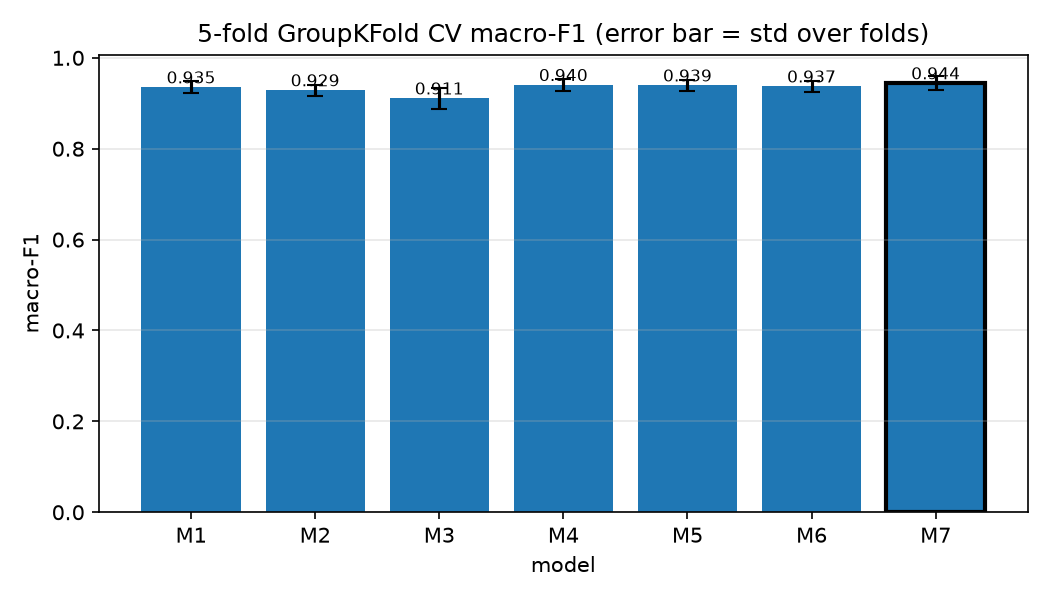
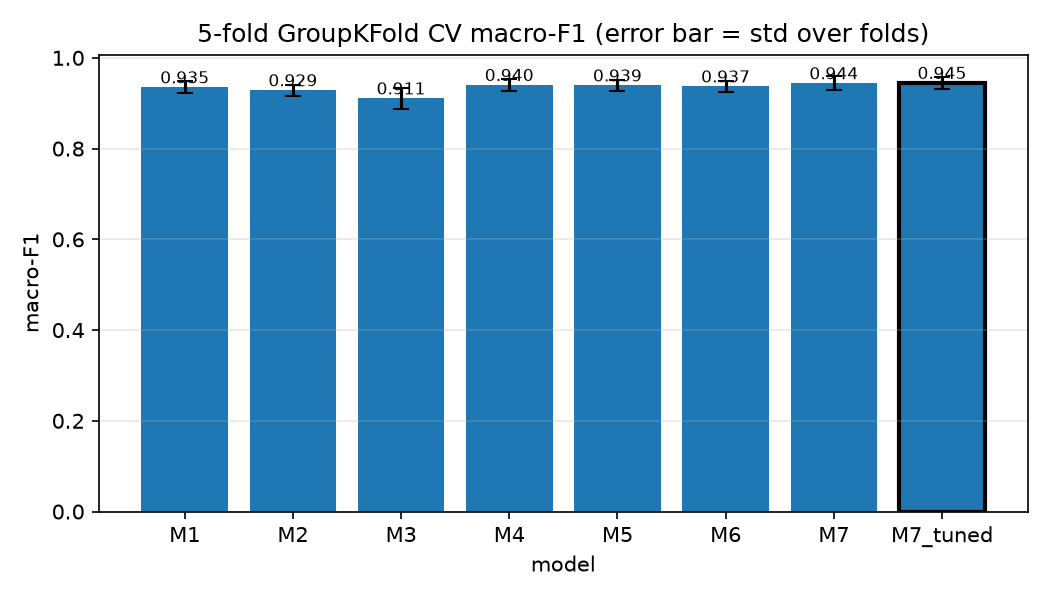
Optuna TPE tuning of M7 (25 trials), tuned vs untuned, updated comparison plots

diff --git a/src/tune.py b/src/tune.py
@@ -1,0 +1,229 @@
+"""M7 tuning: Optuna TPE (Bayesian) on LightGBM LambdaRank.
+
+Search: 50 trials, objective = mean Top-1 over 5-fold GroupKFold (by trip_id) on the 80 TRAIN trips.
+Trial 0 is the untuned M7 configuration, so the baseline is scored under the exact same protocol.
+Final: refit best params on all 80 train trips, evaluate once on the 10 student_test trips.
+The evaluator partition is never loaded here.
+
+Storage: Optuna file journal (results/optuna_journal.log) with the open-file lock, not SQLite
+(SQLAlchemy's DLL is blocked by Application Control) and not the default symlink lock (Windows
+needs a privilege for symlinks). Same effect: every trial is persisted and the run is resumable.
+
+Usage:
+    python src/tune.py --smoke      # 2 trials, in-memory, writes nothing (sanity check)
+    python src/tune.py              # full run, resumable
+
+Outputs: results/optuna_trials.csv, results/optuna_summary.json, results/optuna_journal.log,
+         figures/optuna_history.png, figures/optuna_param_importance.png,
+         models/M7_tuned_lgbm_rank.joblib, results/preds_student_test_M7_tuned.parquet,
+         one row (model_id=M7_tuned) in results/model_results.csv
+"""
+import os
+import sys
+import json
+import time
+import argparse
+import joblib
+import numpy as np
+import pandas as pd
+import lightgbm as lgb
+import optuna
+from optuna.storages import JournalStorage
+from optuna.storages.journal import JournalFileBackend, JournalFileOpenLock
+import matplotlib
+matplotlib.use("Agg")
+import matplotlib.pyplot as plt
+from sklearn.model_selection import GroupKFold
+
+sys.path.insert(0, os.path.dirname(os.path.abspath(__file__)))
+from features import FEATURES                                            # noqa: E402
+from metrics import normalize_per_point, evaluate, predicted_sequence, continuity, append_result  # noqa: E402
+from train_rank import PARAMS, load, drop_queries_without_positive, group_sizes  # noqa: E402
+
+ROOT = os.path.dirname(os.path.dirname(os.path.abspath(__file__)))
+P = lambda *a: os.path.join(ROOT, *a)
+SEED = 42
+N_TRIALS = 50
+STUDY_NAME = "m7_lambdarank_tpe"
+
+
+def fit_with(params, df):
+    m = lgb.LGBMRanker(**params)
+    m.fit(df[FEATURES], df["label"], group=group_sizes(df))
+    return m
+
+
+def make_folds(train):
+    """Same splitter as train_rank.py (5-fold GroupKFold by trip, no shuffle) -> identical folds."""
+    out = []
+    for tr_i, va_i in GroupKFold(n_splits=5).split(train, groups=train["trip_id"]):
+        out.append((set(train.loc[tr_i, "trip_id"]), va_i))
+    return out
+
+
+def suggest(trial):
+    p = dict(PARAMS)
+    p.update(
+        n_estimators=trial.suggest_int("n_estimators", 100, 500, step=50),
+        learning_rate=trial.suggest_float("learning_rate", 0.01, 0.2, log=True),
+        num_leaves=trial.suggest_int("num_leaves", 15, 127),
+        min_child_samples=trial.suggest_int("min_child_samples", 10, 200),
+        subsample=trial.suggest_float("subsample", 0.5, 1.0),
+        colsample_bytree=trial.suggest_float("colsample_bytree", 0.5, 1.0),
+        reg_lambda=trial.suggest_float("reg_lambda", 1e-3, 10.0, log=True),
+    )
+    return p
+
+
+def main():
+    ap = argparse.ArgumentParser()
+    ap.add_argument("--trials", type=int, default=N_TRIALS)
+    ap.add_argument("--smoke", action="store_true", help="2 trials, in-memory study, write nothing")
+    args = ap.parse_args()
+    n_trials = 2 if args.smoke else args.trials
+
+    for d in ["models", "results", "figures"]:
+        os.makedirs(P(d), exist_ok=True)
+    optuna.logging.set_verbosity(optuna.logging.INFO)
+
+    train = load("train")
+    train_fit = drop_queries_without_positive(train)
+    folds = make_folds(train)
+    print(f"train rows={len(train)} (fit rows={len(train_fit)}), folds={len(folds)}")
+
+    def objective(trial):
+        params = suggest(trial)
+        top1s, f1s, lls = [], [], []
+        t0 = time.time()
+        for k, (tr_trips, va_i) in enumerate(folds):
+            tr = train_fit[train_fit["trip_id"].isin(tr_trips)].reset_index(drop=True)
+            va = train.loc[va_i].reset_index(drop=True)
+            m = fit_with(params, tr)
+            prob = normalize_per_point(va, m.predict(va[FEATURES]), mode="softmax")
+            r = evaluate(va, prob)
+            top1s.append(r["top1"]); f1s.append(r["macro_f1"]); lls.append(r["logloss"])
+            trial.set_user_attr("fold_top1", [round(x, 5) for x in top1s])
+            trial.report(float(np.mean(top1s)), step=k)
+            if trial.should_prune():
+                raise optuna.TrialPruned()
+        trial.set_user_attr("cv_macro_f1_mean", float(np.mean(f1s)))
+        trial.set_user_attr("cv_macro_f1_std", float(pd.Series(f1s).std()))
+        trial.set_user_attr("cv_logloss_mean", float(np.mean(lls)))
+        trial.set_user_attr("trial_seconds", round(time.time() - t0, 1))
+        return float(np.mean(top1s))
+
+    if args.smoke:
+        storage = None  # in-memory
+    else:
+        jpath = P("results", "optuna_journal.log")
+        storage = JournalStorage(JournalFileBackend(jpath, lock_obj=JournalFileOpenLock(jpath)))
+    study = optuna.create_study(
+        study_name=STUDY_NAME, storage=storage, load_if_exists=True, direction="maximize",
+        sampler=optuna.samplers.TPESampler(seed=SEED, n_startup_trials=10),
+        pruner=optuna.pruners.MedianPruner(n_startup_trials=10, n_warmup_steps=1),
+    )
+    if len(study.trials) == 0:  # trial 0 = untuned M7 config, scored under the same CV protocol
+        study.enqueue_trial(dict(n_estimators=400, learning_rate=0.05, num_leaves=63, min_child_samples=50,
+                                 subsample=0.8, colsample_bytree=0.8, reg_lambda=1.0))
+
+    S = optuna.trial.TrialState
+    done = sum(t.state in (S.COMPLETE, S.PRUNED) for t in study.trials)
+    remaining = max(0, n_trials - done)
+    print(f"trials done={done}, running {remaining} more (target {n_trials})")
+
+    def save_csv(study_, trial_):
+        if not args.smoke:
+            study_.trials_dataframe().to_csv(P("results", "optuna_trials.csv"), index=False)
+
+    if remaining:
+        study.optimize(objective, n_trials=remaining, n_jobs=1, callbacks=[save_csv])
+
+    trials = [t for t in study.trials if t.state in (S.COMPLETE, S.PRUNED)]
+    complete = [t for t in trials if t.state == S.COMPLETE]
+    pruned = [t for t in trials if t.state == S.PRUNED]
+    search_s = sum(t.duration.total_seconds() for t in trials if t.duration is not None)
+    best = study.best_trial
+    base = study.trials[0]
+    print(f"\ncomplete={len(complete)} pruned={len(pruned)} search time={search_s/60:.1f} min")
+    print(f"baseline (trial 0) CV top1={base.value}")
+    print(f"best trial #{best.number} CV top1={best.value:.4f}")
+    print("best params:", json.dumps(best.params))
+
+    if args.smoke:
+        print("smoke test OK, nothing written")
+        return
+
+    study.trials_dataframe().to_csv(P("results", "optuna_trials.csv"), index=False)
+
+    # optimisation history (real trial values) + best-so-far
+    plt.figure(figsize=(7, 4))
+    xs = [t.number for t in complete]
+    ys = [t.value for t in complete]
+    plt.scatter(xs, ys, s=20, label="completed trial")
+    if pruned:
+        plt.scatter([t.number for t in pruned], [np.mean(t.user_attrs["fold_top1"]) for t in pruned],
+                    s=20, marker="x", c="grey", label="pruned (partial CV mean)")
+    plt.plot(xs, np.maximum.accumulate(ys), c="red", label="best so far")
+    plt.xlabel("trial"); plt.ylabel("CV Top-1 (mean of 5 folds)")
+    plt.title("M7 Optuna TPE: optimisation history"); plt.legend(); plt.grid(alpha=.3); plt.tight_layout()
+    plt.savefig(P("figures", "optuna_history.png"), dpi=150); plt.close()
+
+    # parameter importance (Optuna's default evaluator, completed trials only)
+    try:
+        imp = optuna.importance.get_param_importances(study)
+        s = pd.Series(imp).sort_values()
+        plt.figure(figsize=(6, 4)); s.plot.barh()
+        plt.xlabel("importance"); plt.title("M7 tuning: hyperparameter importance")
+        plt.tight_layout(); plt.savefig(P("figures", "optuna_param_importance.png"), dpi=150); plt.close()
+        s.to_csv(P("results", "optuna_param_importance.csv"))
+    except Exception as e:
+        print("param importance skipped:", e)
+
+    # refit best params on all 80 train trips, evaluate on student_test
+    params = dict(PARAMS)
+    params.update(best.params)
+    st = load("student_test")
+    t0 = time.time()
+    model = fit_with(params, train_fit)
+    train_time = time.time() - t0
+    t0 = time.time()
+    raw = model.predict(st[FEATURES])
+    infer_ms = 1000 * (time.time() - t0) / st.groupby(["trip_id", "point_idx"]).ngroups
+    prob = normalize_per_point(st, raw, mode="softmax")
+    r = evaluate(st, prob)
+    pred = predicted_sequence(st, prob)
+    cont = continuity(pred, P("data", "raw", "student_test"))
+    pred.to_parquet(P("results", "preds_student_test_M7_tuned.parquet"), index=False)
+    joblib.dump({"model": model, "features": FEATURES, "score_mode": "softmax"},
+                P("models", "M7_tuned_lgbm_rank.joblib"))
+
+    cfg = {k: v for k, v in params.items() if k not in ("n_jobs", "verbose")}
+    append_result(dict(
+        model_id="M7_tuned", family="Learning-to-rank (LightGBM LambdaRank), Optuna-tuned", config=json.dumps(cfg),
+        cv_macro_f1_mean=best.user_attrs["cv_macro_f1_mean"], cv_macro_f1_std=best.user_attrs["cv_macro_f1_std"],
+        cv_top1_mean=best.value,
+        st_top1=r["top1"], st_macro_f1=r["macro_f1"], st_precision=r["precision"], st_recall=r["recall"],
+        st_logloss=r["logloss"], st_continuity=cont, train_time_s=round(train_time, 1),
+        infer_time_ms_per_point=round(infer_ms, 4), timestamp=pd.Timestamp.now().isoformat(timespec="seconds"),
+    ), P("results", "model_results.csv"))
+
+    summary = dict(
+        study=STUDY_NAME, sampler="TPE (seed 42, 10 startup trials)", pruner="Median (10 startup, warmup 1 fold)",
+        objective="mean Top-1, 5-fold GroupKFold by trip_id, 80 train trips",
+        n_trials_total=len(trials), n_complete=len(complete), n_pruned=len(pruned),
+        search_time_s=round(search_s, 1), baseline_cv_top1=base.value, best_trial=best.number,
+        best_cv_top1=best.value, best_params=best.params, final_refit_time_s=round(train_time, 1),
+    )
+    with open(P("results", "optuna_summary.json"), "w") as f:
+        json.dump(summary, f, indent=2)
+
+    res = pd.read_csv(P("results", "model_results.csv"))
+    cols = ["model_id", "cv_macro_f1_mean", "cv_top1_mean", "st_top1", "st_macro_f1", "st_logloss",
+            "st_continuity", "train_time_s", "infer_time_ms_per_point"]
+    cmp_ = res[res["model_id"].isin(["M7", "M7_tuned"])].drop_duplicates("model_id", keep="last")
+    print("\nUNTUNED vs TUNED")
+    print(cmp_[cols].to_string(index=False))
+
+
+if __name__ == "__main__":
+    main()
